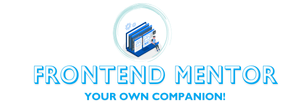
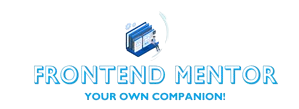
added new navbar design

diff --git a/style.css b/style.css
@@ -1,37 +1,87 @@
 @import url("https://fonts.googleapis.com/css2?family=Poppins:wght@400;500;600;700&display=swap");
+/* Basic Reset */
 * {
   margin: 0;
   padding: 0;
   box-sizing: border-box;
 }
+
 html {
   font-size: 62.5%;
 }
+
 body {
   font-family: "Poppins", sans-serif;
   color: #333;
   background: #fefefe;
 }
-nav{
-  display:flex;
-  justify-content: space-around;
-  
+
+/* Navbar */
+.navbar {
+  display: flex;
+  justify-content: space-between;
+  align-items: flex-end; /* Align items from the bottom */
+  padding: 1.5rem 5rem;
+  backdrop-filter: blur(10px);
+  background: rgba(255, 255, 255, 0.2);
+  background: linear-gradient(90deg, rgba(137, 196, 244, 0.5) 0%, rgba(199, 232, 241, 0.5) 100%);
+  box-shadow: 0 4px 15px rgba(0, 0, 0, 0.1);
+  position: sticky;
+  top: 0;
+  z-index: 100;
+  transition: transform 0.3s ease, opacity 0.3s ease;
 }
-nav li{
+
+.navbar:hover {
+  background: linear-gradient(90deg, rgba(152, 239, 204, 0.7) 0%, rgba(145, 196, 243, 0.7) 100%);
+  box-shadow: 0 6px 20px rgba(0, 0, 0, 0.15);
+}
+
+/* Logo Styling */
+.logo img {
+  width: 300px; /* Keeping logo size same */
+  transition: transform 0.3s ease, filter 0.3s ease;
+  filter: brightness(0.9); /* Subtle effect to make the logo blend well */
+}
+
+.logo img:hover {
+  transform: scale(1.05); /* Slight zoom effect */
+  filter: brightness(1); /* Brighten on hover */
+}
+
+/* Navbar Links */
+.nav-links {
+  display: flex;
   list-style: none;
+  align-items: flex-end; /* Align text from the bottom */
 }
-nav li img{
-  width:400px;
-  margin-left:-15%;
-  margin-top:2%;
- 
+
+.nav-links li {
+  margin: 0 2rem;
 }
-.text{
-      font-size:35px;
-      margin-top:5rem;
-      font-weight: medium;
-      text-decoration: underline;
+
+.nav-link {
+  color: #333;
+  padding: 10px 20px;
+  border-radius: 20px;
+  font-size: 3.8rem;
+  font-weight: 500;
+  transition: background 0.3s ease, color 0.3s ease, box-shadow 0.3s ease;
 }
+
+.nav-link:hover {
+  background: rgba(255, 255, 255, 0.3);
+  color: #4badea; /* Light blue hover color */
+  box-shadow: 0 4px 15px rgba(75, 173, 234, 0.5); /* Soft blue glow */
+}
+
+/* Active Link Styling */
+.active-link {
+  background: linear-gradient(90deg, #4badea, #86e3ff); /* Blue gradient */
+  color: white;
+  box-shadow: 0 4px 10px rgba(75, 173, 234, 0.5);
+}
+
 h2 {
   font-size: 2.4rem;
   position: relative;
@@ -58,13 +108,6 @@ ul {
   list-style-type: none;
   padding: 0;
   margin-top: 8rem;
-}
-
-ul li {
-  background-color: #fff;
-  box-shadow: 0px 4px 40px 0px rgba(0, 0, 0, 0.15);
-  margin: 20px;
-  width: 350px;
 }
 
 ul li a {

diff --git a/index.html b/index.html
@@ -13,14 +13,16 @@
     <title>Frontend Mentor Projects | Rajeev</title>
   </head>
   <body>
-     <nav>
-         <li><img src="./preview.png" alt=""></li>
-        <li class="text">Challenges</li>
-      </nav>
-
-      <h2>Projects</h2>
-      <ul id="list"></ul>
-    </div>
+    <nav class="navbar">
+      <div class="logo">
+        <img src="./preview.png" alt="Logo" />
+      </div>
+      <ul class="nav-links">
+        <li><a href="#challenges" class="nav-link">Challenges</a></li>
+      </ul>
+    </nav>
+    <h2>Projects</h2>
+    <ul id="list"></ul>
 
     <script src="script.js"></script>
   </body>
